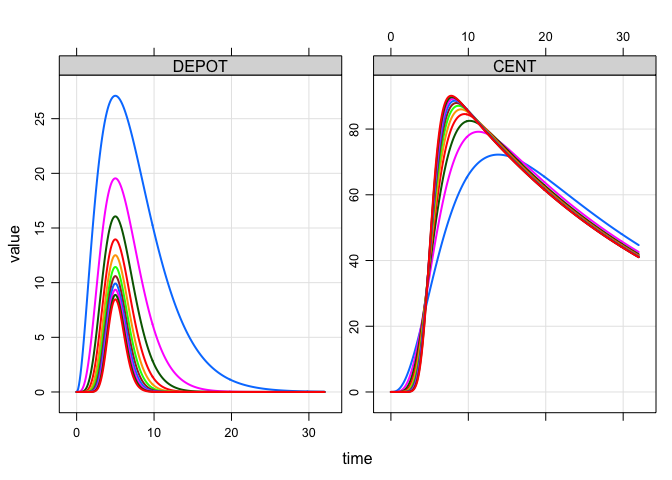
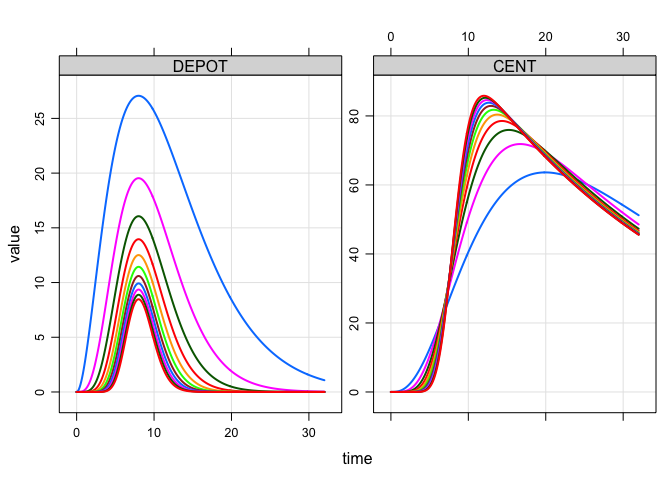
use lgamma for factorial

diff --git a/absorption/transit.md b/absorption/transit.md
@@ -43,7 +43,7 @@ if(self.amt > 0 && self.cmt==1) {
 
 F_DEPOT = 0; 
 double KTR  = (NN+1) / MTT; 
-double NFAC = sqrt(2.0*3.1416)*pow(NN,NN+0.5)*(exp(-NN))*(1.0+1.0/(12.0*NN)); 
+double NFAC = exp(lgamma(NN+1));
 double KINPT = BIO * pow(KTR,(NN+1)) / NFAC; 
 
 [ ode ] 
@@ -88,7 +88,7 @@ mrgsim(mod, events = ev(amt = 100), idata = idata) %>% plot()
 ## Sensitivity analysis on NN
 
 ``` r
-idata <- tibble(NN = seq(1,21,2))
+idata <- tibble(NN = seq(1,21,2), MTT = 8)
 
 mrgsim(mod, events = ev(amt = 100), idata = idata) %>% plot()
 ```
